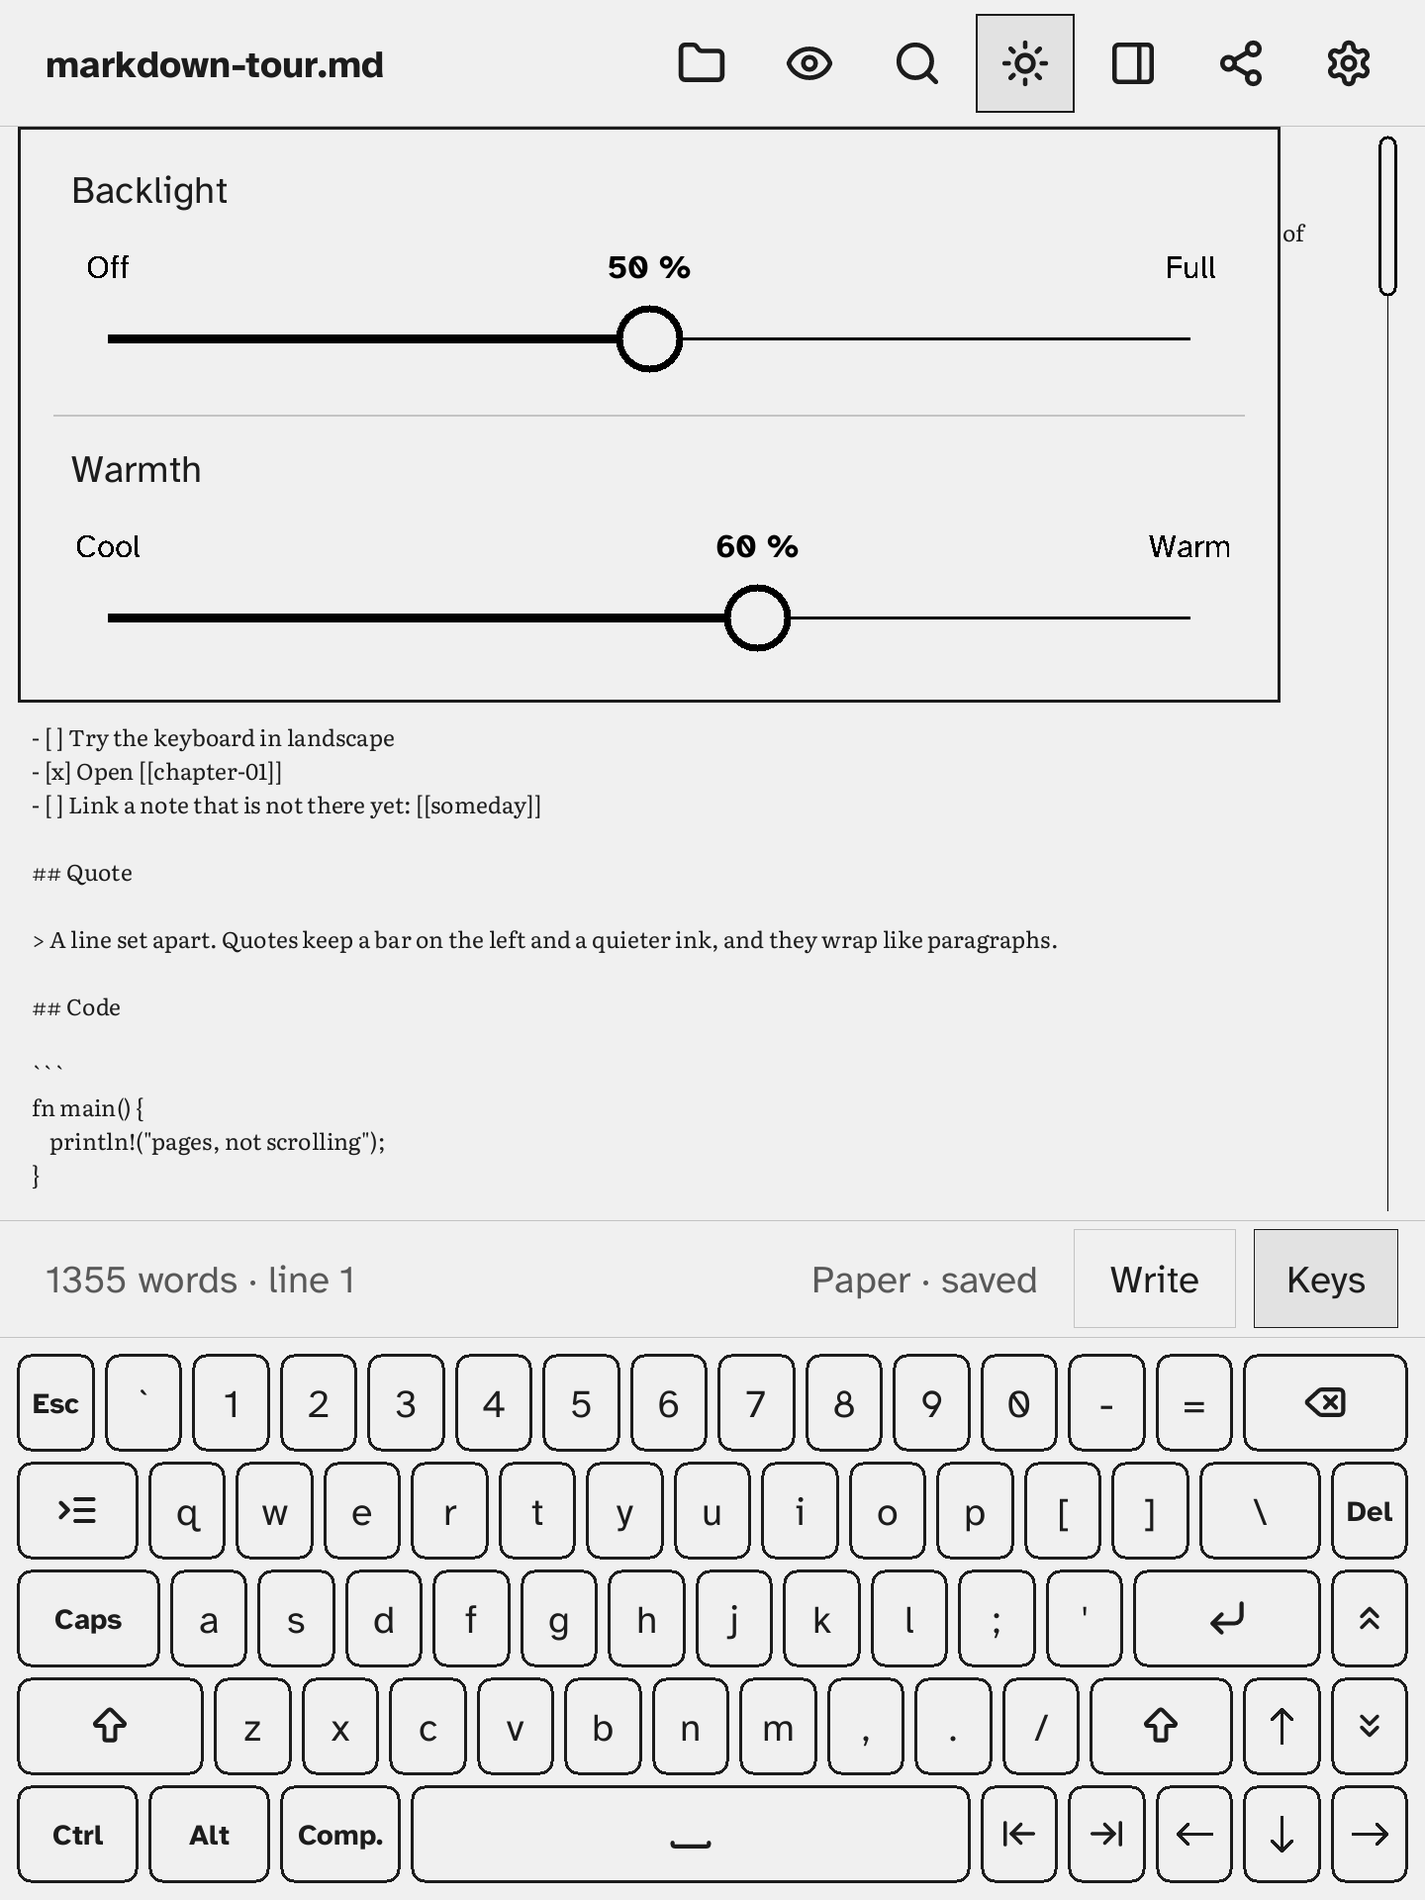
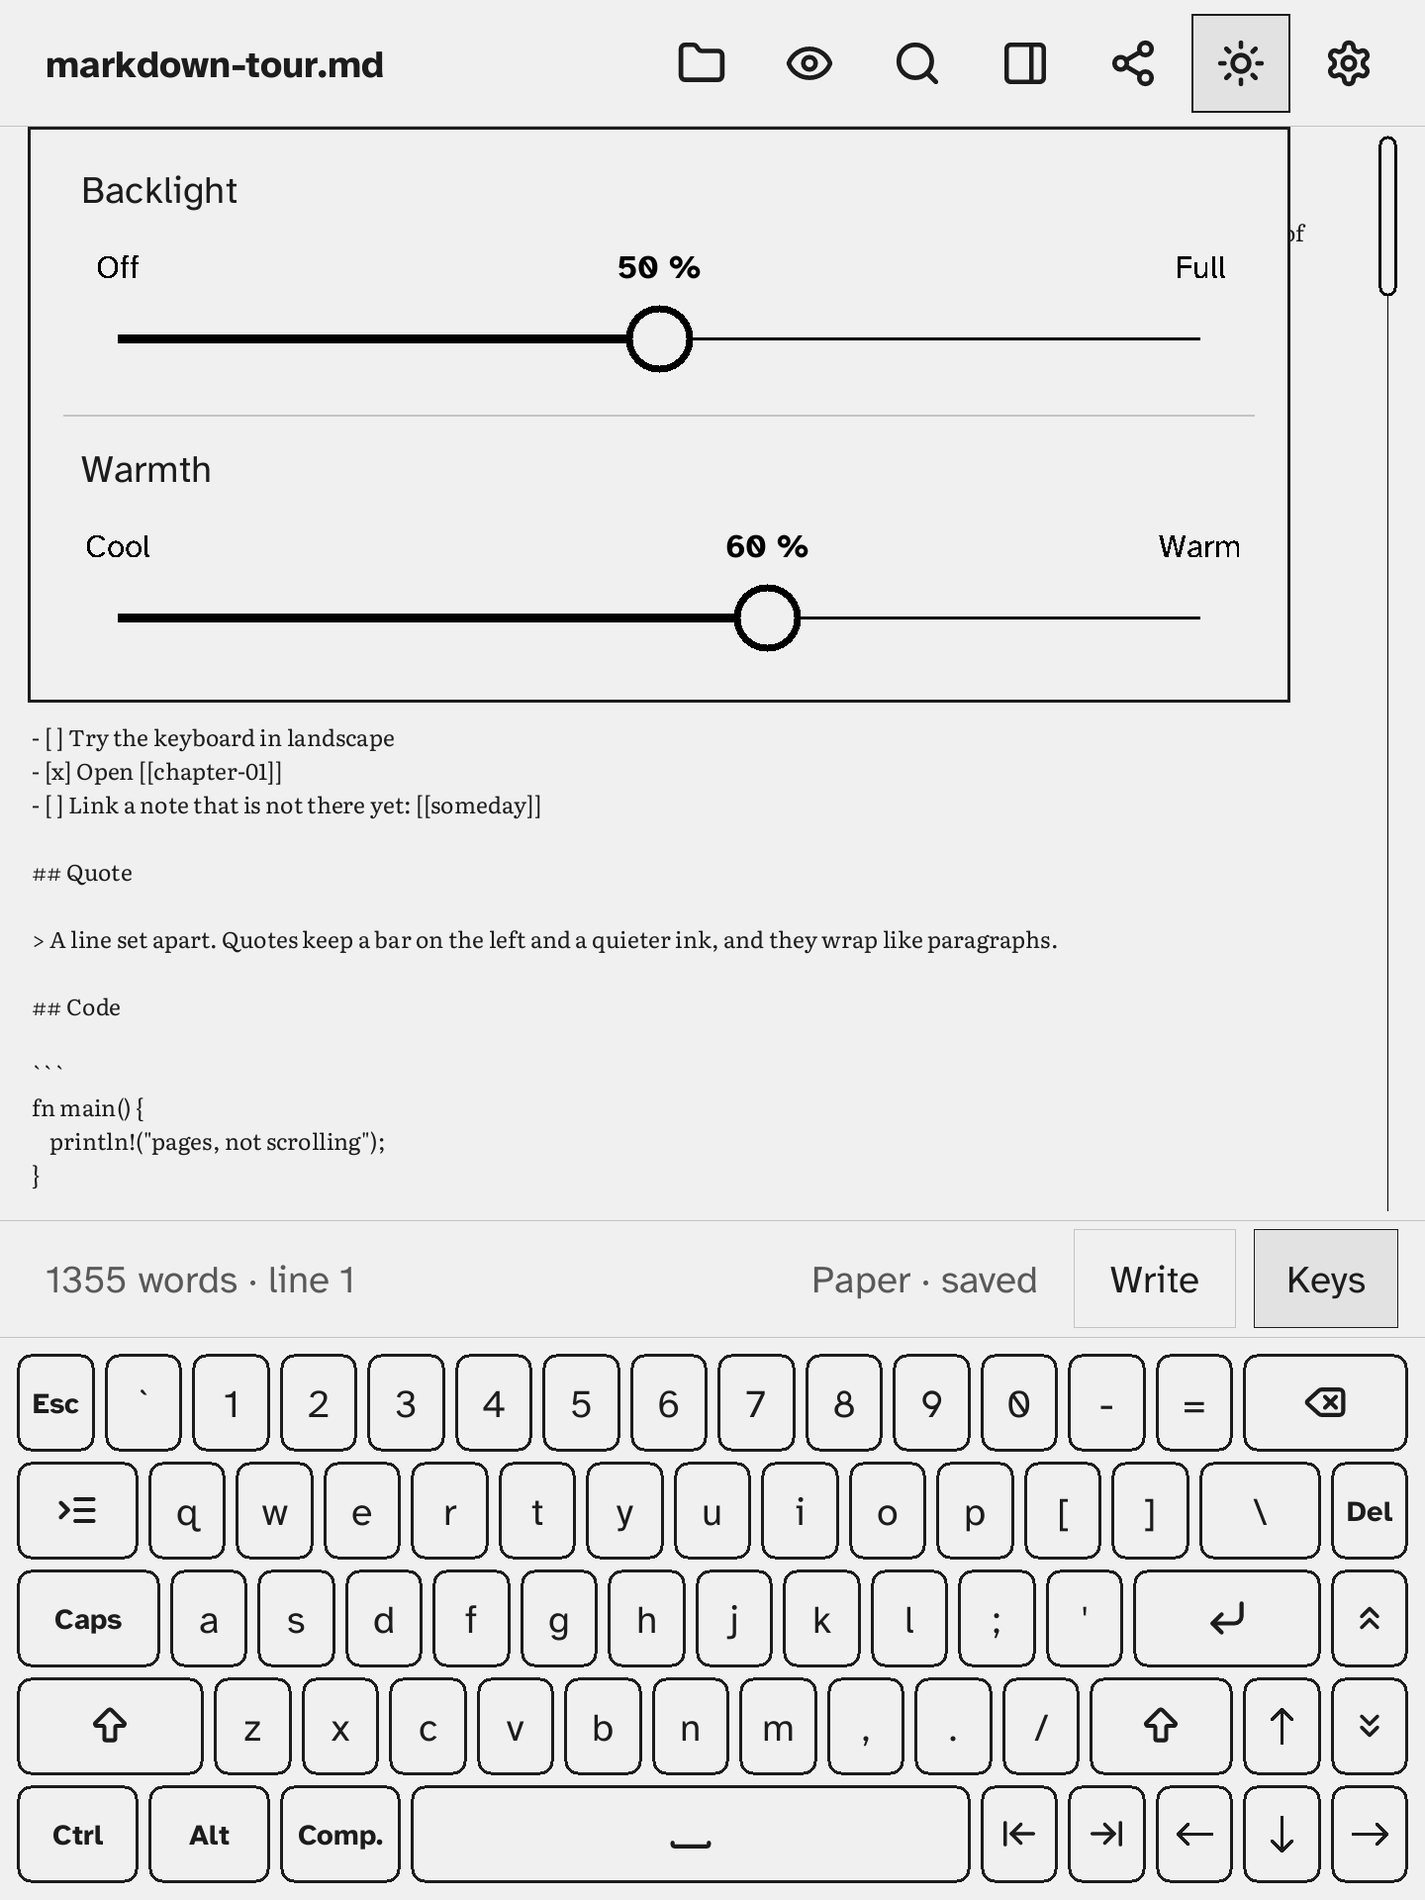
Title bar: the light button third from the right
Asked for on the Forma: the sun goes after Graph, so the bar ends
Light, Wi-Fi, Settings (was after Find). The menu stays right-aligned
under its button. Order tests updated, plus a check that the light
button sits one slot left of Wi-Fi; light and Wi-Fi screenshots
regenerated.

diff --git a/crates/render/src/editor.rs b/crates/render/src/editor.rs
@@ -181,11 +181,12 @@ pub struct Layout {
     /// The drawer button after Find (v1.16): opens the drawer menu.
     /// Zero-sized when no pane is available.
     pub drawer_button: Rect,
-    /// The Wi-Fi button between Graph and Options (v1.18). Zero-sized when
-    /// the device has no Wi-Fi control.
+    /// The Wi-Fi button between the light button and Options (v1.18).
+    /// Zero-sized when the device has no Wi-Fi control.
     pub wifi_button: Rect,
-    /// The front-light button after Find: opens the light menu. Zero-sized
-    /// when the device has no front light.
+    /// The front-light button between Graph and Wi-Fi, third from the
+    /// right on the Forma: opens the light menu. Zero-sized when the device
+    /// has no front light.
     pub light_button: Rect,
     /// Find (between the eye and the drawer button) and Graph (between the
     /// drawer button and Options).
@@ -203,7 +204,7 @@ pub struct Layout {
 
 /// Icon slots in the title bar (S9.2; v1.0.2 adds Back before Files, so
 /// sizing always reserves room for it; v1.16 one drawer button for three;
-/// the front-light button after Find; v1.18 adds the Wi-Fi button).
+/// v1.18 adds the front-light and Wi-Fi buttons, before Settings).
 pub const TITLE_ICONS: i32 = 9;
 
 /// The editor screen: layout, drawing and hit-testing for write and
@@ -528,7 +529,7 @@ impl EditorScreen {
         };
         let by = (title.h - btn) / 2;
         // Right-aligned group, mockup order left to right.
-        let optional = [self.light_on, self.panes_on(), self.graph_on, self.wifi_on];
+        let optional = [self.panes_on(), self.graph_on, self.light_on, self.wifi_on];
         let shown = TITLE_ICONS - optional.iter().filter(|on| !**on).count() as i32;
         let x0 = w - self.px(12.0) - shown * btn - (shown - 1) * icon_gap;
         let slot = |i: i32| Rect::new(x0 + i * (btn + icon_gap), by, btn, btn);
@@ -547,9 +548,9 @@ impl EditorScreen {
                 Rect::default()
             }
         };
-        let light_button = place(self.light_on);
         let drawer_button = place(self.panes_on());
         let graph_button = place(self.graph_on);
+        let light_button = place(self.light_on);
         let wifi_button = place(self.wifi_on);
         let options_button = slot(next);
         // Help opens from Settings → Help & about; the far-right slot is the

diff --git a/crates/render/src/wifi_menu.rs b/crates/render/src/wifi_menu.rs
@@ -554,11 +554,18 @@ mod tests {
                 l.files_button,
                 l.preview_button,
                 l.find_button,
-                l.light_button,
                 l.drawer_button,
+                l.light_button,
                 l.wifi_button,
                 l.options_button,
             ];
+            // With Wi-Fi and a light, the light button is third from the
+            // right: Light, Wi-Fi, Settings.
+            assert!(l.light_button.x + l.light_button.w <= l.wifi_button.x);
+            assert_eq!(
+                l.wifi_button.x - l.light_button.x,
+                l.options_button.x - l.wifi_button.x
+            );
             for (i, a) in all.iter().enumerate() {
                 assert!(a.x >= 0 && a.x + a.w <= e.width as i32, "{a:?}");
                 assert!(a.y >= 0 && a.y + a.h <= l.title.h);

diff --git a/crates/render/src/light_menu.rs b/crates/render/src/light_menu.rs
@@ -244,7 +244,7 @@ mod tests {
     }
 
     #[test]
-    fn the_button_takes_a_place_after_find_and_the_bar_does_not_overflow() {
+    fn the_button_takes_a_place_after_graph_and_the_bar_does_not_overflow() {
         let k = Keyboard::default();
         for (w, h) in [(1440, 1920), (1920, 1440)] {
             for pct in [100u16, 125, 150, 175, 200] {
@@ -260,9 +260,9 @@ mod tests {
                     l.files_button,
                     l.preview_button,
                     l.find_button,
-                    l.light_button,
                     l.drawer_button,
                     l.graph_button,
+                    l.light_button,
                     l.options_button,
                 ];
                 for p in order.windows(2) {

diff --git a/CHANGELOG.md b/CHANGELOG.md
@@ -5,8 +5,8 @@ All notable changes to Σscribe. Versions are tagged after they pass on the Kobo
 ## Unreleased
 
 - **Fix: the light button was missing from the first frame.** At start the app drew the screen before it read the front light, so the sun icon only appeared after the first redraw (a tap, a key). The light and the warmth mixer are now read before the first frame. Test: `app/tests/light_menu.rs`.
-- **A Wi-Fi button in the title bar: switch, networks, passwords.** Between Graph and Settings, in write mode and preview, a button opens a menu (the drawer menu's pattern): the **Wi-Fi switch**; the network joined and its IP address (or "Turning on…", "Connecting…", "Not connected", or the last failure in words); the **networks found by a scan**, strongest first, each with four signal bars, a lock when it needs a password and, when saved, a × that **forgets** it; and Scan again. An open or a saved network joins with a tap; one with a password opens the title-bar field (the rename field) with the on-screen keyboard, stars, an eye to show the text, OK and Cancel. The icon is `wifi-off`, `wifi-low` (on, not joined) or `wifi` (joined). With the stock reader stopped nothing else could turn Wi-Fi on or pick a network; the app now does, in Rust, over `wpa_supplicant`'s control socket (`SCAN`, `SCAN_RESULTS`, `LIST_NETWORKS`, `ADD_NETWORK`, `SET_NETWORK`, `SELECT_NETWORK`, `SAVE_CONFIG`; no `wpa_cli`), and with the new `wifi.sh` (after KOReader's enable-wifi / disable-wifi / obtain-ip: `insmod`/`rmmod` the driver, `ifconfig`, `wpa_supplicant -D wext`, DHCP). Saved networks are the stock reader's own `wpa_supplicant.conf`: what it knew is known, and a network joined here is saved there (only after the handshake worked and an address came; a wrong password leaves nothing behind). **With Settings → Sync on, Wi-Fi off stops Syncthing and Wi-Fi on lets it start again.** The radio runs on a thread of its own and the app takes its news on ticks. `wifi:` INFO lines in the log (state changes, which network joined, failures as warnings; never a password or an address). On the desktop and in the emulator a pretend radio stands in (`wifi-demo`, `expect-wifi`; controls `Wi-Fi`, `WifiSwitch`, `Net:NAME`, `Forget:NAME`, `ShowPassword`). New `sigma_device::wifi` (`wpa`, `fake`, `kobo` for ARM, `Service`), `sigma_render::wifi_menu`, `Hit::Wifi`, `TITLE_ICONS` 8; five Lucide icons (`wifi`, `wifi-low`, `wifi-off`, `lock`, `refresh-cw`); 15 new strings in the nine catalogs; `launch.sh` keeps `INTERFACE` and `WIFI_MODULE` for the app; no new dependency. Tests: `crates/device/src/wifi/` (the protocol against a fake supplicant on a real socket), `crates/render/src/wifi_menu.rs` (portrait and landscape, UI scale 100 to 200 %), `app/tests/wifi.rs`, `tests/emu/v1.17-wifi.script` (screenshots in `docs/screenshots/v1.17/`); design and the Forma checklist in `docs/wifi.md`. **Not yet tried on the Forma**: whether the driver module reloads, and whether `wpa_supplicant` takes `-D wext` there (`docs/wifi.md` §6).
-- **A front-light button in the title bar.** On a device with a front light, a sun icon (the dim sun while the light is off) sits after Find. A tap opens a small menu under it with the Backlight slider and, when the Forma's mixer is there, the Warmth slider: the same sliders, stops and labels as Settings → Display, going through the same changes (`Change::Backlight`, not saved; `Change::Warmth`, saved as `warmth=`), so the two places always agree. A tap or a drag on a slider sets the light at once (one write per step; the same step again does nothing), every step is one tap target, and the menu stays open while you drag; the button, Escape or a tap anywhere else closes it and that tap does nothing else. It works in write mode and preview, and opening it closes the drawer menu. The title bar keeps its order (the icon is a new `place()` slot after Find) and its room at every UI scale, in both orientations. No new strings (Backlight, Warmth, Off, Full, Cool and Warm were translated). New `sigma_render::light_menu` (`LightRow`, `LightHit`, `light_menu_rows`, `draw_light_menu`), `Hit::LightMenu`, `Layout::light_button`, Lucide `sun` and `sun-dim`; emulator control `Light` and `Light:Backlight/Full`, `Light:Warmth/60 %`. **Not tried on the Forma yet.** Tests: `crates/render/src/light_menu.rs`, `app/tests/light_menu.rs`, `tests/emu/v1.17-light-menu.script` (screenshots in `docs/screenshots/v1.17/`).
+- **A Wi-Fi button in the title bar: switch, networks, passwords.** Between the light button and Settings, in write mode and preview, a button opens a menu (the drawer menu's pattern): the **Wi-Fi switch**; the network joined and its IP address (or "Turning on…", "Connecting…", "Not connected", or the last failure in words); the **networks found by a scan**, strongest first, each with four signal bars, a lock when it needs a password and, when saved, a × that **forgets** it; and Scan again. An open or a saved network joins with a tap; one with a password opens the title-bar field (the rename field) with the on-screen keyboard, stars, an eye to show the text, OK and Cancel. The icon is `wifi-off`, `wifi-low` (on, not joined) or `wifi` (joined). With the stock reader stopped nothing else could turn Wi-Fi on or pick a network; the app now does, in Rust, over `wpa_supplicant`'s control socket (`SCAN`, `SCAN_RESULTS`, `LIST_NETWORKS`, `ADD_NETWORK`, `SET_NETWORK`, `SELECT_NETWORK`, `SAVE_CONFIG`; no `wpa_cli`), and with the new `wifi.sh` (after KOReader's enable-wifi / disable-wifi / obtain-ip: `insmod`/`rmmod` the driver, `ifconfig`, `wpa_supplicant -D wext`, DHCP). Saved networks are the stock reader's own `wpa_supplicant.conf`: what it knew is known, and a network joined here is saved there (only after the handshake worked and an address came; a wrong password leaves nothing behind). **With Settings → Sync on, Wi-Fi off stops Syncthing and Wi-Fi on lets it start again.** The radio runs on a thread of its own and the app takes its news on ticks. `wifi:` INFO lines in the log (state changes, which network joined, failures as warnings; never a password or an address). On the desktop and in the emulator a pretend radio stands in (`wifi-demo`, `expect-wifi`; controls `Wi-Fi`, `WifiSwitch`, `Net:NAME`, `Forget:NAME`, `ShowPassword`). New `sigma_device::wifi` (`wpa`, `fake`, `kobo` for ARM, `Service`), `sigma_render::wifi_menu`, `Hit::Wifi`, `TITLE_ICONS` 8; five Lucide icons (`wifi`, `wifi-low`, `wifi-off`, `lock`, `refresh-cw`); 15 new strings in the nine catalogs; `launch.sh` keeps `INTERFACE` and `WIFI_MODULE` for the app; no new dependency. Tests: `crates/device/src/wifi/` (the protocol against a fake supplicant on a real socket), `crates/render/src/wifi_menu.rs` (portrait and landscape, UI scale 100 to 200 %), `app/tests/wifi.rs`, `tests/emu/v1.17-wifi.script` (screenshots in `docs/screenshots/v1.17/`); design and the Forma checklist in `docs/wifi.md`. **Not yet tried on the Forma**: whether the driver module reloads, and whether `wpa_supplicant` takes `-D wext` there (`docs/wifi.md` §6).
+- **A front-light button in the title bar.** On a device with a front light, a sun icon (the dim sun while the light is off) sits after Graph, third from the right on the Forma (Light, Wi-Fi, Settings). A tap opens a small menu under it with the Backlight slider and, when the Forma's mixer is there, the Warmth slider: the same sliders, stops and labels as Settings → Display, going through the same changes (`Change::Backlight`, not saved; `Change::Warmth`, saved as `warmth=`), so the two places always agree. A tap or a drag on a slider sets the light at once (one write per step; the same step again does nothing), every step is one tap target, and the menu stays open while you drag; the button, Escape or a tap anywhere else closes it and that tap does nothing else. It works in write mode and preview, and opening it closes the drawer menu. The title bar keeps its order (the icon is a new `place()` slot after Find) and its room at every UI scale, in both orientations. No new strings (Backlight, Warmth, Off, Full, Cool and Warm were translated). New `sigma_render::light_menu` (`LightRow`, `LightHit`, `light_menu_rows`, `draw_light_menu`), `Hit::LightMenu`, `Layout::light_button`, Lucide `sun` and `sun-dim`; emulator control `Light` and `Light:Backlight/Full`, `Light:Warmth/60 %`. **Not tried on the Forma yet.** Tests: `crates/render/src/light_menu.rs`, `app/tests/light_menu.rs`, `tests/emu/v1.17-light-menu.script` (screenshots in `docs/screenshots/v1.17/`).
 - **Fix: Settings → Sync showed "Last sync: Never" although the notes had reached the phone.** Syncthing's `lastFile` time moves only when this device receives a file, so a Kobo that only sent stayed at Never. "Last sync" is now the later of that time and the last time a connected device on the folder was in sync with it (`GET /rest/db/completion`, the call the "Waiting for …" status already makes: `remoteState` valid, `needItems` and `needBytes` 0, and nothing left to fetch here). The in-sync time is kept across restarts in `syncthing-home/last-in-sync` (written first, when the folder falls out of sync, and every 10 minutes at most); a time ahead of the clock is shown as now, and none is kept while the clock is unset. Times are now shown in UTC, the device's clock (the received time was shown in the zone Syncthing runs in, an hour ahead of the device on the Forma). New `model::parse_completion` (`Completion`, replaces `not_sharing`), `parse_last_received`, `last_sync_text`, `rfc3339_secs`. Tests: `crates/core/src/sync/model.rs`, `crates/core/tests/sync_supervisor.rs` (fake REST: a send-only peer in sync sets it, a restart keeps it, a peer that still needs files does not, a future or foreign time). Not yet tried on the Forma (`docs/sync.md` §10, §12.16).
 - **Settings → Sync says "Waiting for {device} to accept" until the other side accepts the notes folder.** On the Forma the page read "Up to date" while the phone still had to accept "Σscribe notes". For each connected device on the notes folder the supervisor now asks `GET /rest/db/completion?folder=…&device=…` and, while its `remoteState` is `notSharing`, the status is `Status::WaitingFor(name, more)`: "Waiting for Joe to accept" (with several, "Joe +2"), with a "Next step" line under it: Accept "Σscribe notes" in Syncthing on that device. It ranks below errors and syncing and above scanning and up to date; devices that are not connected are not asked. New `View::waiting`, `model::not_sharing`; three new strings in the nine catalogs. Tests: `crates/core/src/sync/model.rs`, `crates/core/tests/sync_supervisor.rs` (fake REST), `crates/render/src/options.rs`, `app/tests/sync_settings.rs`; emulator `tests/emu/v1.16-sync.script` (`docs/screenshots/v1.16/v1.16-sync-waiting.png`). Not yet tried on the Forma (`docs/sync.md` §10, §12.15).
 - **Fix: a device accepted before the notes folder was shared never got it.** A phone accepted by an earlier build stayed at "Not shared yet" because only Accept shared the folder. When sync starts, if no folder is at the notes path and a device other than this one is configured, the Kobo now makes the notes folder (the same one Accept makes, marked as its own) shared with all of them, and logs `sync: share notes with … (accepted earlier)`. A folder already at the path is never touched. Tests in `crates/core/tests/sync_supervisor.rs`. Not yet tried on the Forma (`docs/sync.md` §6, §12.14).

diff --git a/docs/device-checklist-prerelease.md b/docs/device-checklist-prerelease.md
@@ -229,7 +229,7 @@ The full list, with what to measure, is `docs/sync.md` §12. In short:
 
 ## Wi-Fi button (Unreleased, v1.17): not tried on the Forma yet
 The full list, with the two things most likely to need changing (module reload, the `wpa_supplicant` driver flag), is `docs/wifi.md` §6. In short:
-- [ ] The Wi-Fi button sits between Graph and Settings; its icon is `wifi-off`, a dot with one arc, or the full `wifi` as the radio is off, on, or joined. At 200 % and in landscape nothing overlaps and the file name keeps room.
+- [ ] The light button (sun) sits third from the right, then the Wi-Fi button, then Settings; its icon is `wifi-off`, a dot with one arc, or the full `wifi` as the radio is off, on, or joined. At 200 % and in landscape nothing overlaps and the file name keeps room.
 - [ ] Switch off, then on: `wifi:` lines in the log, no error; it rejoins a saved network and shows its name and address.
 - [ ] Join an open network, a saved one, and one with a password typed on the on-screen keyboard; a wrong password is refused within about 30 s and nothing is added to `/etc/wpa_supplicant/wpa_supplicant.conf`.
 - [ ] A network joined here is known to the stock reader after the reboot; Forget removes it from the conf.

diff --git a/docs/wifi.md b/docs/wifi.md
@@ -131,7 +131,8 @@ title bar button ── menu (render: wifi_menu.rs) ── App (app/src/wifi.rs)
   `expect-wifi off|on|joined:NAME|saved:NAME|unsaved:NAME|failure|no-failure`
   and the controls `Wi-Fi`, `WifiSwitch`, `Rescan`, `Net:NAME`, `Forget:NAME`,
   `ShowPassword`.
-- **Title bar**: one more icon slot (`TITLE_ICONS` is 8). The existing rule
+- **Title bar**: one more icon slot (`TITLE_ICONS` is 9 with the light
+  button); the order ends Graph, Light, Wi-Fi, Settings. The existing rule
   holds: the gaps shrink, then the icons, never below 44 brief px, and the
   name keeps at least 200 brief px. Tests cover portrait and landscape at UI
   scales 100, 150 and 200 %.
